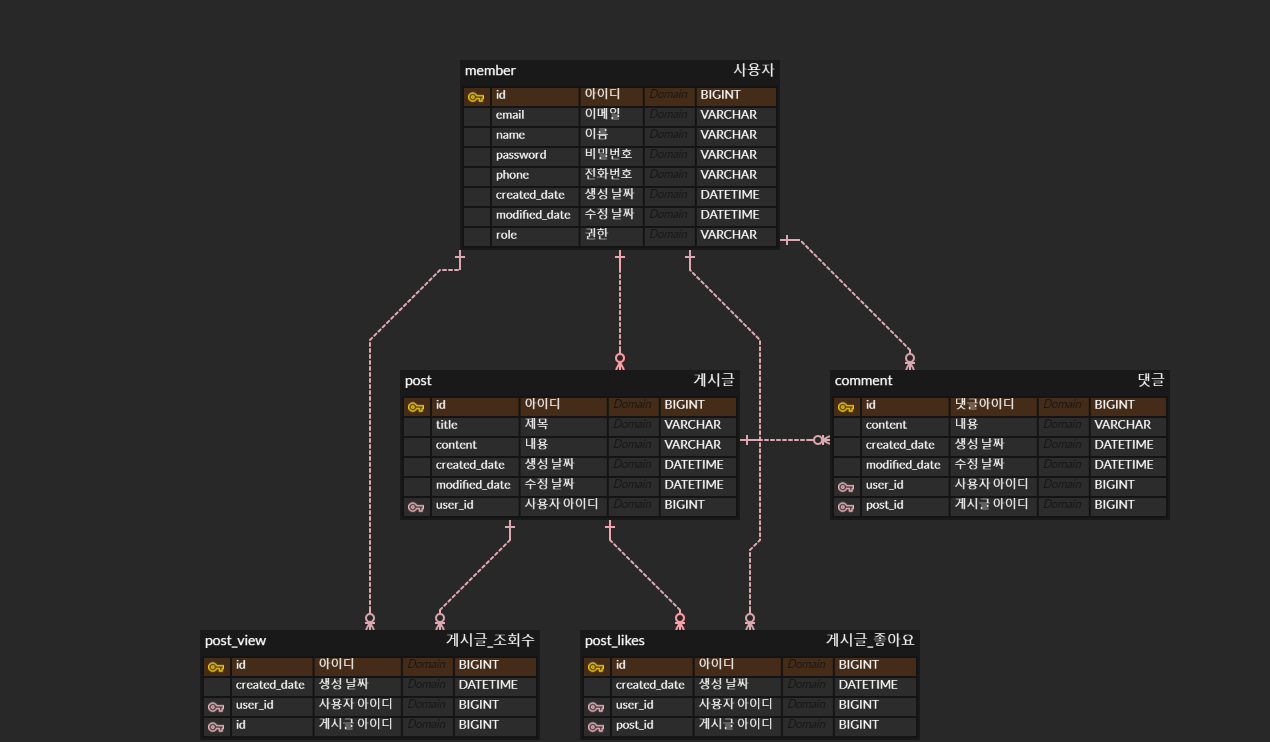
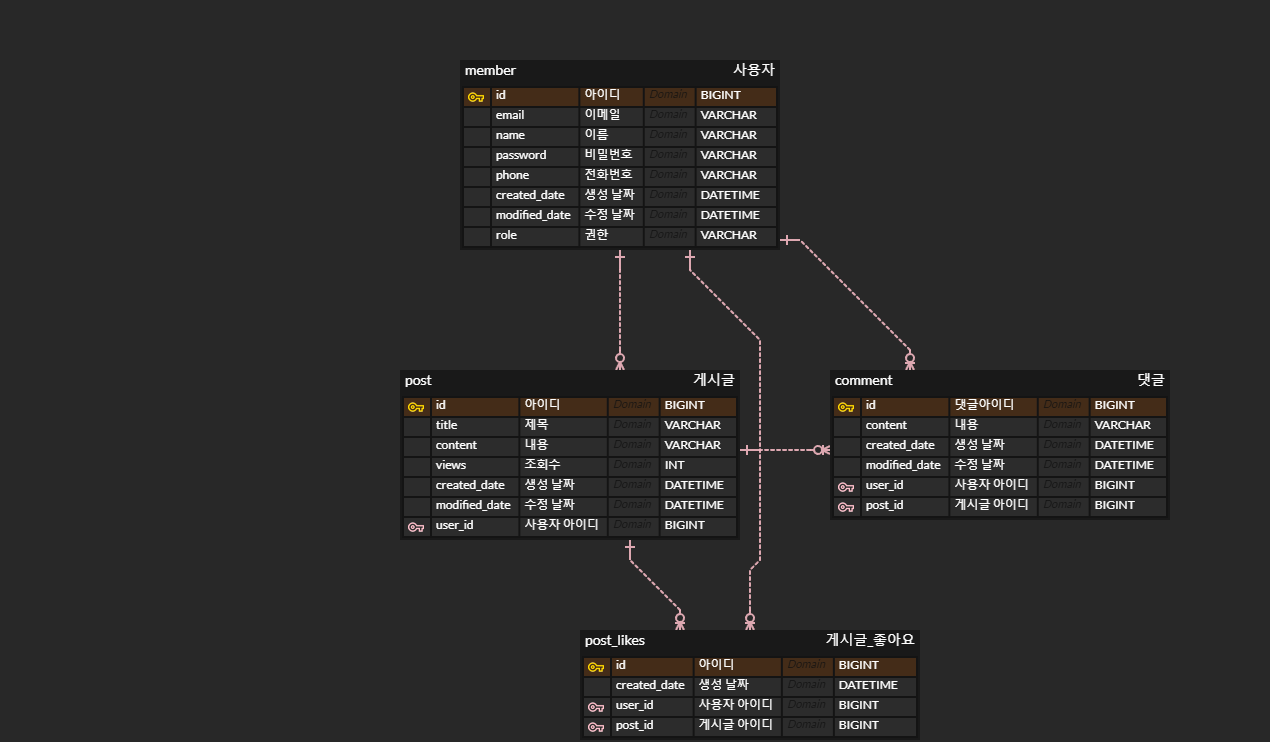
Docs: README.md 수정

diff --git a/README.md b/README.md
@@ -22,8 +22,9 @@
 
 - 특정 게시글 조회 기능
   - 로그인하지 않은 사용자를 포함한 모든 사용자는 게시글을 조회할 수 있다. 
-  - 게시글 제목, 게시글 내용, 작성자, 작성일이 조회된다. 
-
+  - 게시글 제목, 게시글 내용, 작성자, 작성일이 조회된다.
+  - 게시글을 읽거나 페이지를 방문할 때마다 해당 컨텐츠의 조회수가 증가
+    
 - 댓글 작성 기능
   - 로그인한 사용자는 권한에 관계 없이 댓글을 작성할 수 있다. 
   - 사용자는 댓글 내용(텍스트)를 작성할 수 있다.
@@ -31,12 +32,6 @@
 - 게시물 검색
    - 로그인하지 않은 사용자를 포함한 모든 사용자는 게시글을 검색 할 수 있다.
    - 검색결과는 최신순으로 기본정렬된다.
-   - 제목, 내용 태그에 따라 검색을 할수있다.
-   - 
-  
--  게시물 조회수 기능
-   - 게시글을 읽거나 페이지를 방문할 때마다 해당 컨텐츠의 조회수가 증가
-   - 같은 사용자가 여러 번 게시글을 방문하는 경우에도 중복으로 계산되지 않아야 한다.
 
  - 게시물 좋아요 기능
    - 사용자는 게시물에 좋아요를 할수있다.
